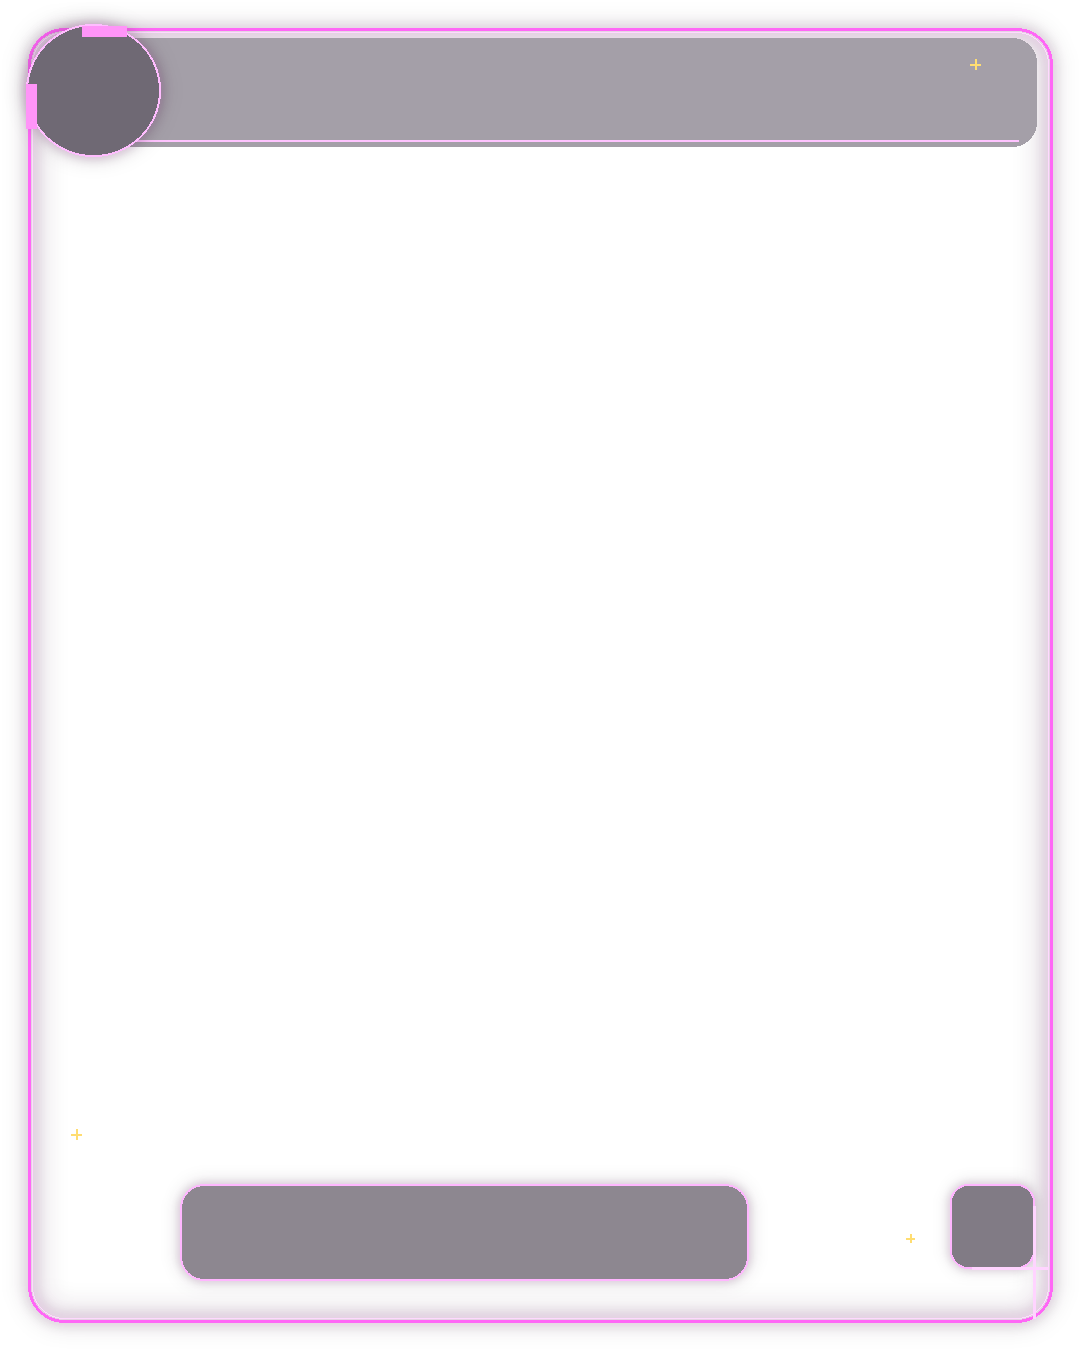
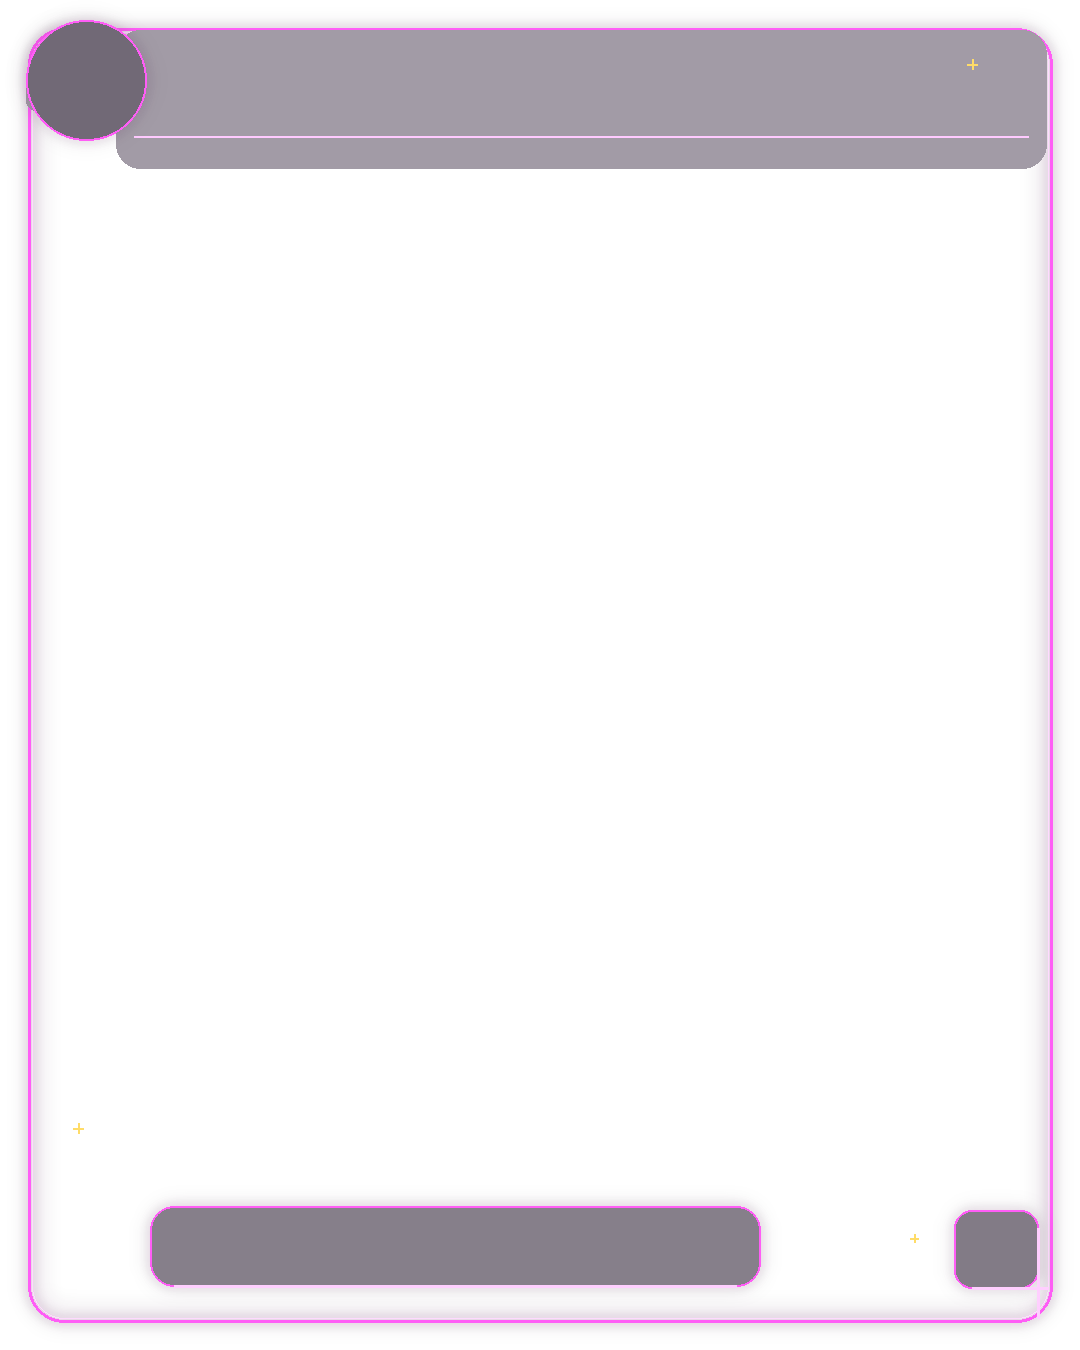
Renderer update

Changed region(s): [[0.0, 0.0, 0.9778, 0.1244], [0.1222, 0.8711, 0.7028, 0.9644], [0.8556, 0.8711, 0.9778, 0.9644]]

diff --git a/includes/photo-uploads.php b/includes/photo-uploads.php
@@ -631,21 +631,21 @@ function photo_render_framed_image($sourcePath, $destPath, $event, $orientation 
         $canvas->compositeImage($overlay, Imagick::COMPOSITE_OVER, 0, 0);
 
         $logo = new Imagick($logoPath);
-        $logoSize = $landscape ? 116 : 124;
+        $logoSize = $landscape ? 108 : 108;
         $logo->resizeImage($logoSize, $logoSize, Imagick::FILTER_LANCZOS, 1, true);
-        $logoX = $landscape ? 22 : 18;
-        $logoY = $landscape ? 22 : 18;
+        $logoX = $landscape ? 33 : 32;
+        $logoY = $landscape ? 29 : 26;
         $canvas->compositeImage($logo, Imagick::COMPOSITE_OVER, $logoX, $logoY);
 
         $qr = new Imagick($qrPath);
-        $qrSize = $landscape ? 82 : 72;
+        $qrSize = $landscape ? 74 : 68;
         $qr->resizeImage($qrSize, $qrSize, Imagick::FILTER_POINT, 1, true);
         $qrPad = 6;
         $qrHolder = new Imagick();
         $qrHolder->newImage($qrSize + ($qrPad * 2), $qrSize + ($qrPad * 2), new ImagickPixel('white'));
         $qrHolder->compositeImage($qr, Imagick::COMPOSITE_OVER, $qrPad, $qrPad);
-        $qrX = $landscape ? 1466 : 956;
-        $qrY = $landscape ? 1030 : 1190;
+        $qrX = $landscape ? 1480 : 962;
+        $qrY = $landscape ? 1086 : 1216;
         $canvas->compositeImage($qrHolder, Imagick::COMPOSITE_OVER, $qrX, $qrY);
 
         $fontBold = photo_imagick_font_path(true);
@@ -657,40 +657,40 @@ function photo_render_framed_image($sourcePath, $destPath, $event, $orientation 
         $dateLine = photo_event_date_long($event['event_date'] ?? '');
 
         if ($landscape) {
-            $titleX = 185;
-            $titleY = 74;
-            $titleMaxW = 470;
-            $titleSize = photo_imagick_fit_font_size($canvas, $eventName, $fontBold, 40, $titleMaxW, 26);
+            $titleX = 158;
+            $titleY = 78;
+            $titleMaxW = 460;
+            $titleSize = photo_imagick_fit_font_size($canvas, $eventName, $fontBold, 38, $titleMaxW, 24);
             photo_imagick_draw_text($canvas, $eventName, $titleX, $titleY, $fontBold, $titleSize, '#ffcf40', 'rgba(80,0,40,0.75)', 1, $titleMaxW);
 
             $venueText = 'Venue: ' . ($venueLine !== '' ? $venueLine : 'Dance Thru The Decades');
             $dateText = 'Date: ' . ($dateLine !== '' ? $dateLine : 'TBA');
-            photo_imagick_draw_text($canvas, $venueText, 740, 70, $fontRegular, 19, 'rgba(245,245,255,0.96)', null, 0, 330);
-            photo_imagick_draw_text($canvas, $dateText, 1112, 70, $fontRegular, 19, 'rgba(245,245,255,0.96)', null, 0, 290);
+            photo_imagick_draw_text($canvas, $venueText, 760, 68, $fontRegular, 18, 'rgba(245,245,255,0.96)', null, 0, 320);
+            photo_imagick_draw_text($canvas, $dateText, 1120, 68, $fontRegular, 18, 'rgba(245,245,255,0.96)', null, 0, 270);
 
-            photo_imagick_draw_pill($canvas, 'EVENT PHOTO', 190, 82, $fontBold, 17, 'white', '#f7aaff', 'rgba(12,0,20,0.72)', 24, 37, 190);
+            photo_imagick_draw_pill($canvas, 'EVENT PHOTO', 160, 76, $fontBold, 16, 'white', '#f7aaff', 'rgba(12,0,20,0.72)', 22, 34, 175);
             $creditName = trim((string)$creditName);
             if ($creditName !== '') {
-                photo_imagick_draw_pill($canvas, 'Photo by ' . $creditName, 1248, 80, $fontRegular, 16, 'white', '#f7aaff', 'rgba(12,0,20,0.72)', 20, 37, 195);
+                photo_imagick_draw_pill($canvas, 'Photo by ' . $creditName, 1238, 76, $fontRegular, 15, 'white', '#f7aaff', 'rgba(12,0,20,0.72)', 18, 34, 190);
             }
 
-            photo_imagick_draw_text($canvas, 'Dance Thru The Decades', 709, 1064, $fontBold, 34, '#ffcf40', 'rgba(80,0,40,0.75)', 1, 0, Imagick::ALIGN_CENTER);
-            photo_imagick_draw_text($canvas, '60s  •  70s  •  80s  •  90s  •  00s', 709, 1096, $fontRegular, 18, '#ffcf40', null, 0, 0, Imagick::ALIGN_CENTER);
+            photo_imagick_draw_text($canvas, 'Dance Thru The Decades', 698, 1123, $fontBold, 31, '#ffcf40', 'rgba(80,0,40,0.75)', 1, 0, Imagick::ALIGN_CENTER);
+            photo_imagick_draw_text($canvas, '60s  •  70s  •  80s  •  90s  •  00s', 698, 1149, $fontRegular, 17, '#ffcf40', null, 0, 0, Imagick::ALIGN_CENTER);
         } else {
             $titleX = 158;
-            $titleY = 88;
-            $titleMaxW = 600;
-            $titleSize = photo_imagick_fit_font_size($canvas, $eventName, $fontBold, 36, $titleMaxW, 22);
+            $titleY = 84;
+            $titleMaxW = 585;
+            $titleSize = photo_imagick_fit_font_size($canvas, $eventName, $fontBold, 34, $titleMaxW, 22);
             photo_imagick_draw_text($canvas, $eventName, $titleX, $titleY, $fontBold, $titleSize, '#ffcf40', 'rgba(80,0,40,0.75)', 1, $titleMaxW);
-            photo_imagick_draw_text($canvas, 'Venue: ' . ($venueLine !== '' ? $venueLine : 'Dance Thru The Decades'), 158, 122, $fontRegular, 19, 'rgba(245,245,255,0.96)', null, 0, 600);
-            photo_imagick_draw_text($canvas, 'Date: ' . ($dateLine !== '' ? $dateLine : 'TBA'), 158, 150, $fontRegular, 19, 'rgba(245,245,255,0.96)', null, 0, 600);
-            photo_imagick_draw_pill($canvas, 'EVENT PHOTO', 158, 172, $fontBold, 15, 'white', '#f7aaff', 'rgba(12,0,20,0.72)', 21, 36, 180);
+            photo_imagick_draw_text($canvas, 'Venue: ' . ($venueLine !== '' ? $venueLine : 'Dance Thru The Decades'), 158, 116, $fontRegular, 18, 'rgba(245,245,255,0.96)', null, 0, 585);
+            photo_imagick_draw_text($canvas, 'Date: ' . ($dateLine !== '' ? $dateLine : 'TBA'), 158, 140, $fontRegular, 18, 'rgba(245,245,255,0.96)', null, 0, 585);
+            photo_imagick_draw_pill($canvas, 'EVENT PHOTO', 158, 144, $fontBold, 15, 'white', '#f7aaff', 'rgba(12,0,20,0.72)', 20, 34, 175);
             $creditName = trim((string)$creditName);
             if ($creditName !== '') {
-                photo_imagick_draw_pill($canvas, 'Photo by ' . $creditName, 720, 172, $fontRegular, 15, 'white', '#f7aaff', 'rgba(12,0,20,0.72)', 18, 36, 200);
+                photo_imagick_draw_pill($canvas, 'Photo by ' . $creditName, 706, 144, $fontRegular, 14, 'white', '#f7aaff', 'rgba(12,0,20,0.72)', 16, 34, 190);
             }
-            photo_imagick_draw_text($canvas, 'Dance Thru The Decades', 464, 1224, $fontBold, 31, '#ffcf40', 'rgba(80,0,40,0.75)', 1, 0, Imagick::ALIGN_CENTER);
-            photo_imagick_draw_text($canvas, '60s  •  70s  •  80s  •  90s  •  00s', 464, 1255, $fontRegular, 16, '#ffcf40', null, 0, 0, Imagick::ALIGN_CENTER);
+            photo_imagick_draw_text($canvas, 'Dance Thru The Decades', 455, 1250, $fontBold, 28, '#ffcf40', 'rgba(80,0,40,0.75)', 1, 0, Imagick::ALIGN_CENTER);
+            photo_imagick_draw_text($canvas, '60s  •  70s  •  80s  •  90s  •  00s', 455, 1275, $fontRegular, 15, '#ffcf40', null, 0, 0, Imagick::ALIGN_CENTER);
         }
 
         $canvas->setImageFormat('jpeg');
